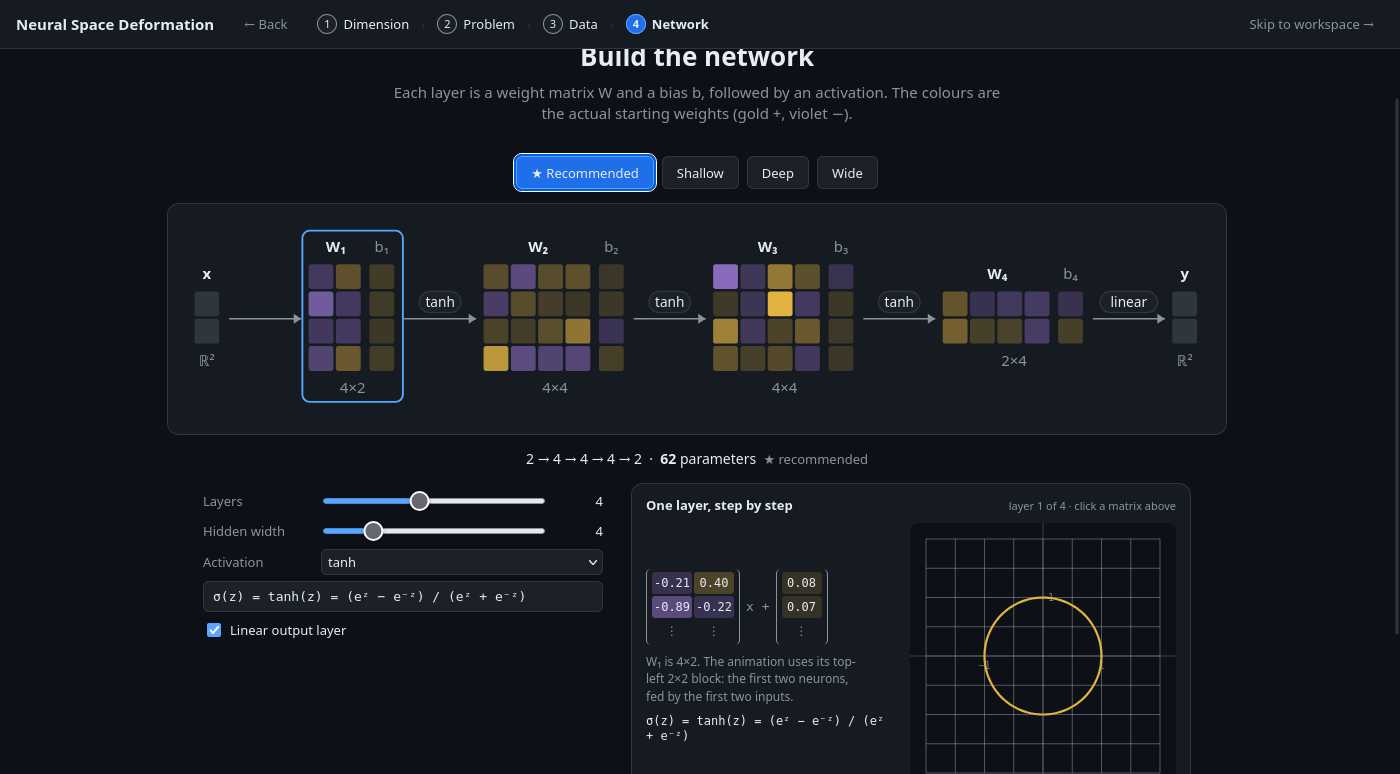
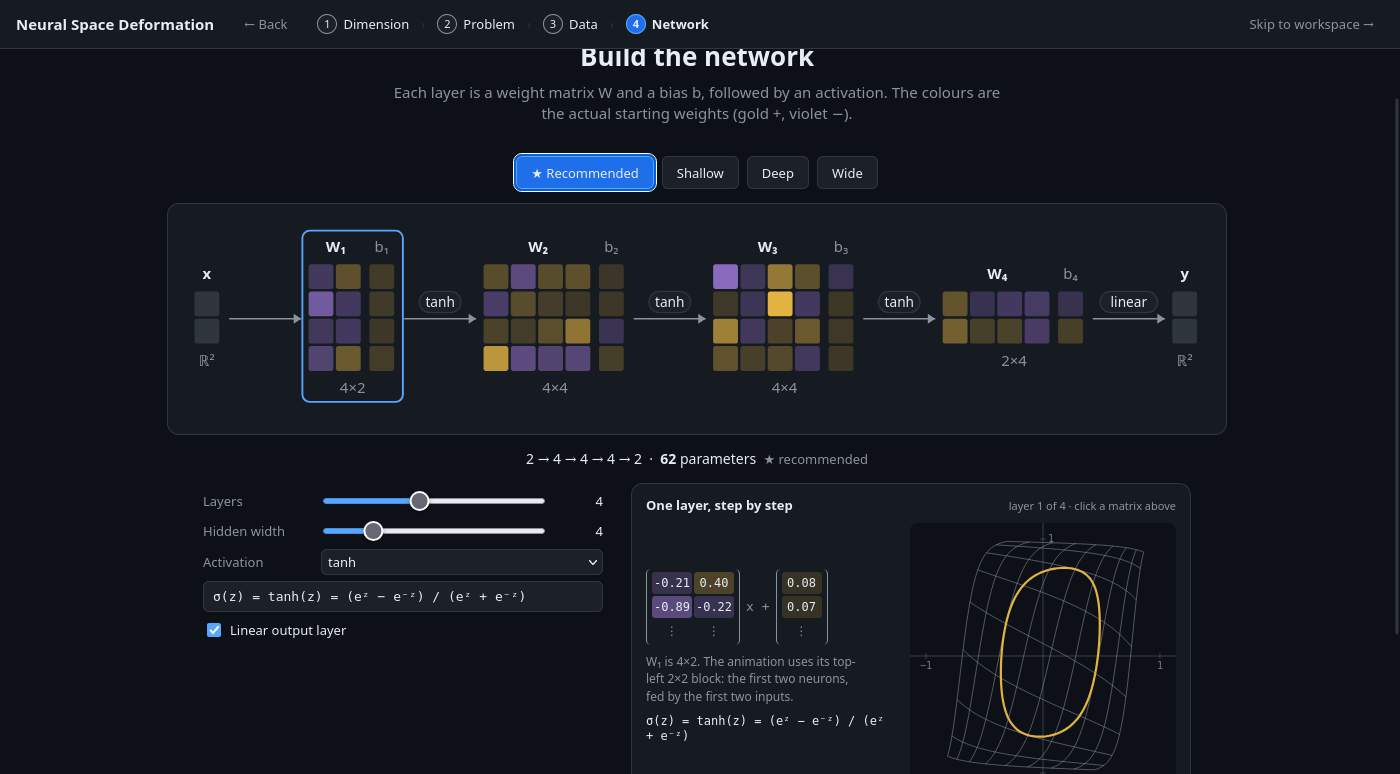
Layer inspector: follow one point through the layer; README screenshots of the current interface
- 'One point through this layer': o, e₁, e₂ (e₃) — in → W and b → z = W·a + b → σ → out, with the input of
  layer 1 being e.g. e₁ = (1, 0) itself; hovering an entry of z shows its sum
- The weight heatmap explains rows, columns and the bias column
- New screenshots: basis vectors box, training timeline, legend at the top right, the inspector example

Changed region(s): [[0.645, 0.6822, 0.8293, 1.0]]

diff --git a/src/ui.js b/src/ui.js
@@ -2399,6 +2399,52 @@
     return out;
   }
 
+  /*
+   * "One point through this layer": a_in → [W | b] → z = W·a_in + b → σ → a_out, for the origin or a basis
+   * vector (chosen above).  In layer 1 the input is e.g. e₁ = (1, 0) itself; in later layers it is where
+   * that point has arrived.  Hovering an entry of z shows its whole sum.
+   */
+  let exSel = 1;
+  function renderInspExample(l) {
+    const box = $('inspExample'), d = S.dim, Lay = net.layout[l - 1], act = net.acts[l - 1], th = net.theta;
+    const names = ['o', ...[...Array(d)].map((_, i) => `e${subN(i + 1)}`)], colors = ['#e6edf3', ...BASIS_COLORS];
+    exSel = Math.min(exSel, d);
+    const p = new Float64Array(d); if (exSel > 0) p[exSel - 1] = 1;
+    const st = net.stages(p), aIn = st[2 * l - 2], z = st[2 * l - 1], aOut = st[2 * l];
+    let mx = 1e-9;
+    for (const v of th) mx = Math.max(mx, Math.abs(v));
+    const n2 = (v) => (Math.abs(v) < 0.005 ? '0.00' : v.toFixed(2)).replace('-', '−');
+    const cell = (v, scale = mx) => {
+      const a = (0.1 + 0.6 * Math.min(1, Math.abs(v) / scale)).toFixed(3);
+      return `<span style="background:${v >= 0 ? `rgba(227,179,65,${a})` : `rgba(188,140,255,${a})`}">${n2(v)}</span>`;
+    };
+    const vec = (v, label, cls = '', titles = null) => `<div class="ex-col"><span class="lbl">${label}</span><div class="ex-vec ${cls}">${
+      Array.from(v).map((x, i) => (titles ? cell(x, Math.max(1, ...Array.from(v).map(Math.abs))).replace('<span', `<span title="${titles[i]}"`) : cell(x, Math.max(1, ...Array.from(v).map(Math.abs))))).join('')}</div></div>`;
+    let W = '';
+    for (let i = 0; i < Lay.nout; i++) for (let j = 0; j < Lay.nin; j++) W += cell(th[Lay.w + i * Lay.nin + j]);
+    const bv = Array.from(th.subarray(Lay.b, Lay.b + Lay.nout));
+    const sums = [...Array(Lay.nout)].map((_, i) => {
+      const terms = [...Array(Lay.nin)].map((__, j) => `(${n2(th[Lay.w + i * Lay.nin + j])})(${n2(aIn[j])})`).join(' + ');
+      return `z${subN(i + 1)} = ${terms} + (${n2(bv[i])}) = ${n2(z[i])}`;
+    });
+    const inName = l === 1 ? `x = ${names[exSel]}` : `a${subN(l - 1)}`, actName = act === 'identity' ? 'linear' : act;
+    const pIn = `(${Array.from(p).map((v) => v.toFixed(0)).join(', ')})`;
+    box.innerHTML = `<div class="ex-pick">Follow ${names.map((nm, i) => `<button data-ex="${i}" class="${i === exSel ? 'on' : ''}" style="color:${colors[i]}">${nm}</button>`).join('')}</div>
+      <div class="ex-note">${names[exSel]} = ${pIn} enters the network${l === 1 ? ' here.' : `; layer ${l} receives it as a${subN(l - 1)}, after ${l - 1} layer${l > 2 ? 's' : ''}.`}
+        Hover a value of z to see its sum.</div>
+      <div class="ex-flow">
+        ${vec(aIn, `in: ${inName}`)}
+        <div class="ex-op">→<small>W·a + b</small></div>
+        <div class="ex-col"><span class="lbl">W${subN(l)} (${Lay.nout}×${Lay.nin})</span><div class="ex-mat" style="grid-template-columns: repeat(${Lay.nin}, auto)">${W}</div></div>
+        <div class="ex-col"><span class="lbl">b${subN(l)}</span><div class="ex-vec">${bv.map((v) => cell(v)).join('')}</div></div>
+        <div class="ex-op">=</div>
+        ${vec(z, 'z (linear)', '', sums)}
+        <div class="ex-op">→<small>${actName}</small></div>
+        ${vec(aOut, `out: a${subN(l)}${l === net.nLayers ? ' = f(x)' : ''}`, 'out')}
+      </div>`;
+    box.querySelectorAll('[data-ex]').forEach((b) => { b.onclick = () => { exSel = +b.dataset.ex; renderInspExample(l); }; });
+  }
+
   function renderInspectorAndNet() {
     if (!net || !traces) return;
     const L = net.nLayers;
@@ -2418,6 +2464,7 @@
     const W0 = h0 ? W.map((_, i) => Array.from(h0.subarray(Lay.w + i * Lay.nin, Lay.w + (i + 1) * Lay.nin))) : null;
     $('inspTitle').innerHTML = `Layer ${l} of ${L}<span class="tag">${Lay.nin} → ${Lay.nout} · ${act}${l === L ? ' · output' : ''}</span>`;
     $('inspPrev').disabled = l <= 1; $('inspNext').disabled = l >= L;
+    renderInspExample(l);
     inspect.cells = Inspector.drawWeights($('wCanvas'), W, b, { W0, hover: inspect.hover });
     // numbers
     const sv = NN.singularValues(W), rank = NN.rankOf(sv);

diff --git a/index.html b/index.html
@@ -68,6 +68,20 @@
   #modelStrip { display: flex; align-items: center; gap: 14px; padding: 8px 12px; border-top: 1px solid var(--line); background: var(--panel); }
   .ms-layers { flex: 1; display: flex; align-items: center; justify-content: center; gap: 8px; min-width: 0; }   /* ▶ sits right next to the network */
   .ms-layers input[type=range] { flex: 1; min-width: 80px; }
+  /* layer inspector: one point through the layer */
+  .ex-pick { display: flex; align-items: center; gap: 5px; margin: 2px 0 6px; font-size: 12px; color: var(--muted); }
+  .ex-pick button { padding: 1px 9px; border-radius: 12px; font-weight: 650; }
+  .ex-pick button.on { background: var(--panel2); border-color: currentColor; }
+  .ex-note { font-size: 12px; color: var(--muted); margin-bottom: 6px; }
+  .ex-flow { display: flex; flex-wrap: wrap; align-items: center; gap: 8px 5px; overflow-x: auto; padding: 6px 2px 8px; font: 10.5px ui-monospace, SFMono-Regular, Menlo, monospace; }
+  .ex-col { display: flex; flex-direction: column; align-items: center; gap: 2px; }
+  .ex-col .lbl { font: 10.5px ui-sans-serif, system-ui, sans-serif; color: var(--muted); margin-bottom: 2px; white-space: nowrap; }
+  .ex-vec, .ex-mat { display: grid; gap: 2px; padding: 2px 4px; border-left: 1.5px solid var(--muted); border-right: 1.5px solid var(--muted); border-radius: 4px; }
+  .ex-vec span, .ex-mat span { min-width: 32px; padding: 2px 2px; text-align: right; border-radius: 3px; color: var(--text); }
+  .ex-vec.out span { outline: 1px solid rgba(88, 166, 255, 0.35); }
+  .ex-vec span[title] { cursor: help; }
+  .ex-op { color: var(--muted); font-size: 13px; white-space: nowrap; display: flex; flex-direction: column; align-items: center; }
+  .ex-op small { font-size: 10px; }
   /* goals */
   .gcard { border: 1px solid var(--line); border-radius: 8px; padding: 4px 10px 8px; margin: 6px 0; background: var(--panel2); }
   .ghead { display: flex; align-items: center; gap: 8px; margin: 2px 0 2px; }
@@ -554,7 +568,12 @@
         </div>
         <div class="btns"><button id="inspShowLin" data-tip="Move the view to this layer's linear step z = W a + b.">Show linear step</button>
           <button id="inspShowAct" data-tip="Move the view to this layer's activation step a = σ(z).">Show activation</button></div>
+        <div class="group-label">One point through this layer</div>
+        <div id="inspExample"></div>
         <div class="group-label">Weights W and bias b <span class="tag">— double-click a cell to edit</span></div>
+        <div class="note">Row i = neuron zᵢ, column j = input aⱼ: wᵢⱼ is how much input j counts for neuron i.
+          The b column holds one number per neuron, added after W·a: it shifts that neuron, so the layer can move
+          space as well as stretch and turn it.</div>
         <canvas id="wCanvas" class="chart wmat"></canvas>
         <div class="kv" id="wStats"></div>
         <div class="group-label">Activation σ(z) and where the points are</div>

diff --git a/README.md b/README.md
@@ -80,10 +80,10 @@ One big view; everything else opens on demand, and one panel at a time (✕, Esc
    Model ▲ → Continual learning → Mode *sequential*, train with anti-forgetting *none*, then with
    *replay*, *OGD* or *EWC*, and compare the Forgetting table under *Analysis*.
 
-![Forward view: a tanh network half-way through layer 2, with Jacobian ellipses; the strip at the bottom is the network](docs/screenshot-2d.png)
+![Forward view: a tanh network half-way through layer 2, with Jacobian ellipses; top left, where o, e₁, e₂ are before the layer, after W·a + b and after tanh; the strip at the bottom is the network](docs/screenshot-2d.png)
 ![My own goals on the spirals: blue to A, red to B, at the output; the Model drawer shows network, goals with their losses, and training](docs/screenshot-train.png)
 ![A wide hidden layer, tilted: the third principal direction as depth shows how the layer lifts one class over the other](docs/screenshot-tilt.png)
-![Layer inspector and neuron diagram; the class background of a wide stage is a 2D slice, and the legend says how often it agrees with the network](docs/screenshot-inspector.png)
+![Layer inspector: e₁ = (1, 0) goes through layer 1 — in → W₁ and b₁ → z → tanh → out — above the weight heatmap; below, the neuron diagram](docs/screenshot-inspector.png)
 ![3D view](docs/screenshot-3d.png)
 
 ## What it shows
@@ -93,7 +93,10 @@ One big view; everything else opens on demand, and one panel at a time (✕, Esc
   the unit circle/sphere, the basis vectors and the origin. Click or drag along the strip to see the
   objects after each layer — every layer is split into its **linear** step (`z = W a + b`) and its
   **activation** step (`a = σ(z)`), with a smooth morph in between.
-- **Network diagram and layer inspector.** ◫ in the strip opens a diagram of the network: one column per
+- **Network diagram and layer inspector.** The inspector first follows one point through the layer:
+  the origin or a basis vector (e₁ = (1, 0) enters layer 1 as itself, later layers receive it where it has
+  arrived), shown as in → `W` and `b` → `z = W·a + b` → σ → out; hovering an entry of `z` shows its whole
+  sum. ◫ in the strip opens a diagram of the network: one column per
   layer, edges coloured and weighted by `W` (gold positive, violet negative), neurons filled by their value
   at the probe point. Click a layer to inspect it: `W`/`b` heatmap with the change since initialization
   under each cell, singular values, rank, `det W`, norms; the activation `σ(z)` and `σ′(z)` with a
